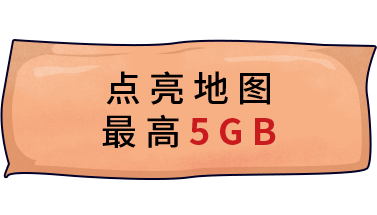
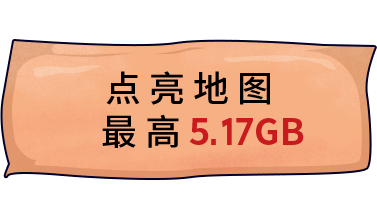
哈哈哈

Changed region(s): [[0.5544, 0.5302, 0.817, 0.6977]]

diff --git a/css/styles.less b/css/styles.less
@@ -587,7 +587,9 @@ html,body{
                                     color: #feab86;
                                     >span{
                                         color: #fff;
-                                        font-size: .24rem;
+                                        font-size: .48rem;
+                                        font-weight: bolder;
+                                        margin: 0 .05rem;
                                     }
                                 }
                                 &:nth-child(2){

diff --git a/css/styles.css b/css/styles.css
@@ -565,7 +565,9 @@ body section.main > div:nth-child(1) > div:nth-child(3) > p:nth-child(1) {
 html section.main > div:nth-child(1) > div:nth-child(3) > p:nth-child(1) > span,
 body section.main > div:nth-child(1) > div:nth-child(3) > p:nth-child(1) > span {
   color: #fff;
-  font-size: .24rem;
+  font-size: .48rem;
+  font-weight: bolder;
+  margin: 0 .05rem;
 }
 html section.main > div:nth-child(1) > div:nth-child(3) > p:nth-child(2),
 body section.main > div:nth-child(1) > div:nth-child(3) > p:nth-child(2) {
